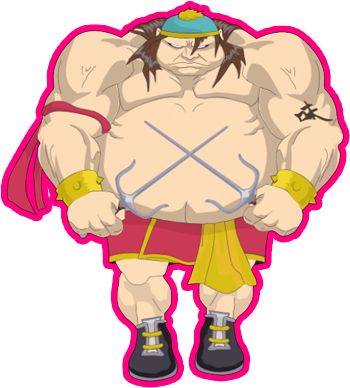
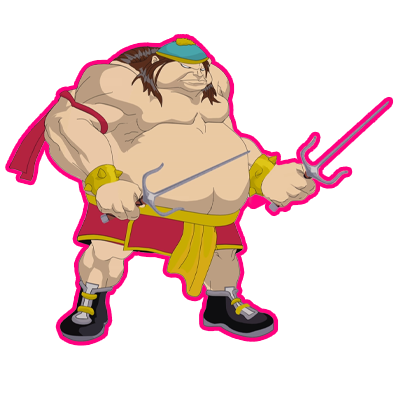
fix: improved bulrog and fixed api.js to handle paths correctly

diff --git a/frontend/lib/media.js b/frontend/lib/media.js
@@ -12,12 +12,19 @@ export function getStrapiMedia(media) {
     return null
   }
 
-  // Use relative URLs if they start with /uploads
-  if (url.startsWith("/uploads")) {
+  // For absolute URLs, return as is
+  if (url.startsWith("http")) {
     return url
   }
 
-  const imageUrl = url.startsWith("/") ? getStrapiURL(url) : url
+  // Use full URL starting with the domain for /uploads paths
+  if (url.startsWith("/uploads")) {
+    // Use NEXT_PUBLIC_STRAPI_API_URL for uploads
+    return `${process.env.NEXT_PUBLIC_STRAPI_API_URL}${url}`
+  }
+
+  // For other relative URLs
+  const imageUrl = getStrapiURL(url)
   return imageUrl
 }
 
@@ -33,12 +40,19 @@ export function getStrapiImageUrl(image) {
     return null
   }
 
-  // Use relative URLs if they start with /uploads
-  if (url.startsWith("/uploads")) {
+  // For absolute URLs, return as is
+  if (url.startsWith("http")) {
     return url
   }
 
-  const imageUrl = url.startsWith("/") ? getStrapiURL(url) : url
+  // Use full URL starting with the domain for /uploads paths
+  if (url.startsWith("/uploads")) {
+    // Use NEXT_PUBLIC_STRAPI_API_URL for uploads
+    return `${process.env.NEXT_PUBLIC_STRAPI_API_URL}${url}`
+  }
+
+  // For other relative URLs
+  const imageUrl = getStrapiURL(url)
   return imageUrl
 }
 
@@ -52,12 +66,19 @@ export function getFocalPointImageUrl(image, width, height) {
     return null
   }
 
-  // Use relative URLs if they start with /uploads
-  const baseUrl = url.startsWith("/uploads")
-    ? url
-    : url.startsWith("/")
-    ? getStrapiURL(url)
-    : url
+  // For absolute URLs, use as is
+  let baseUrl = ""
+  if (url.startsWith("http")) {
+    baseUrl = url
+  }
+  // Use full URL starting with the domain for /uploads paths
+  else if (url.startsWith("/uploads")) {
+    baseUrl = `${process.env.NEXT_PUBLIC_STRAPI_API_URL}${url}`
+  }
+  // For other relative URLs
+  else {
+    baseUrl = getStrapiURL(url)
+  }
 
   // Check multiple locations for focal point data
   let focalPoint = null

diff --git a/frontend/components/PhotoSwipeGallery.js b/frontend/components/PhotoSwipeGallery.js
@@ -18,16 +18,53 @@ const PhotoSwipeGalleryComponent = ({ galleryData, images }) => {
       // Handle different data structures
       if (image.attributes && image.attributes.url) {
         const { url } = image.attributes
-        return url.startsWith("/") ? getStrapiURL(url) : url
+
+        // For absolute URLs, return as is
+        if (url.startsWith("http")) {
+          return url
+        }
+
+        // Use full URL starting with the domain for /uploads paths
+        if (url.startsWith("/uploads")) {
+          return `${process.env.NEXT_PUBLIC_STRAPI_API_URL}${url}`
+        }
+
+        // For other relative URLs
+        return getStrapiURL(url)
       } else if (image.url) {
-        return image.url.startsWith("/") ? getStrapiURL(image.url) : image.url
+        const url = image.url
+
+        // For absolute URLs, return as is
+        if (url.startsWith("http")) {
+          return url
+        }
+
+        // Use full URL starting with the domain for /uploads paths
+        if (url.startsWith("/uploads")) {
+          return `${process.env.NEXT_PUBLIC_STRAPI_API_URL}${url}`
+        }
+
+        // For other relative URLs
+        return getStrapiURL(url)
       } else if (
         image.data &&
         image.data.attributes &&
         image.data.attributes.url
       ) {
         const { url } = image.data.attributes
-        return url.startsWith("/") ? getStrapiURL(url) : url
+
+        // For absolute URLs, return as is
+        if (url.startsWith("http")) {
+          return url
+        }
+
+        // Use full URL starting with the domain for /uploads paths
+        if (url.startsWith("/uploads")) {
+          return `${process.env.NEXT_PUBLIC_STRAPI_API_URL}${url}`
+        }
+
+        // For other relative URLs
+        return getStrapiURL(url)
       }
     } catch (err) {
       console.error("Error getting image URL:", err)

diff --git a/frontend/next.config.js b/frontend/next.config.js
@@ -8,37 +8,41 @@ const nextConfig = {
       "photography-blog-images.s3.us-west-2.amazonaws.com",
       "34.220.121.179",
       "www.silkytruth.com",
+      "silkytruth.com",
     ],
     unoptimized: true, // Need this for next export
   },
   swcMinify: false,
   trailingSlash: true, // Helps with static export
+  assetPrefix: "https://www.silkytruth.com", // Add asset prefix for production
   env: {
     NEXT_PUBLIC_STRAPI_API_URL:
       process.env.USE_CLOUD_BACKEND === "true"
-        ? "http://34.220.121.179:1337"
+        ? "https://34.220.121.179:1337" // Changed to HTTPS
         : "http://127.0.0.1:1337",
     API_URL:
       process.env.USE_CLOUD_BACKEND === "true"
-        ? "http://34.220.121.179:1337"
+        ? "https://34.220.121.179:1337" // Changed to HTTPS
         : "http://127.0.0.1:1337",
   },
   // Remove exportPathMap causing issues
   async rewrites() {
-    // Only apply rewrites in development, not in static export
-    if (process.env.NODE_ENV === "development") {
-      return [
-        {
-          source: "/api/:path*",
-          destination: "http://34.220.121.179:1337/api/:path*",
-        },
-        {
-          source: "/uploads/:path*",
-          destination: "http://34.220.121.179:1337/uploads/:path*",
-        },
-      ]
-    }
-    return []
+    return [
+      {
+        source: "/uploads/:path*",
+        destination:
+          process.env.USE_CLOUD_BACKEND === "true"
+            ? "https://34.220.121.179:1337/uploads/:path*" // Changed to HTTPS
+            : "http://127.0.0.1:1337/uploads/:path*",
+      },
+      {
+        source: "/api/:path*",
+        destination:
+          process.env.USE_CLOUD_BACKEND === "true"
+            ? "https://34.220.121.179:1337/api/:path*" // Changed to HTTPS
+            : "http://127.0.0.1:1337/api/:path*",
+      },
+    ]
   },
 }
 

diff --git a/frontend/lib/api.js b/frontend/lib/api.js
@@ -6,9 +6,14 @@ import qs from "qs"
  * @returns {string} Full Strapi URL
  */
 export function getStrapiURL(path = "") {
-  return `${
+  // Use environment variable for the base URL, with a fallback
+  const baseURL =
     process.env.NEXT_PUBLIC_STRAPI_API_URL || "http://127.0.0.1:1337"
-  }${path}`
+
+  // Make sure path starts with a slash if it's not empty
+  const normalizedPath = path && !path.startsWith("/") ? `/${path}` : path
+
+  return `${baseURL}${normalizedPath}`
 }
 
 /**
